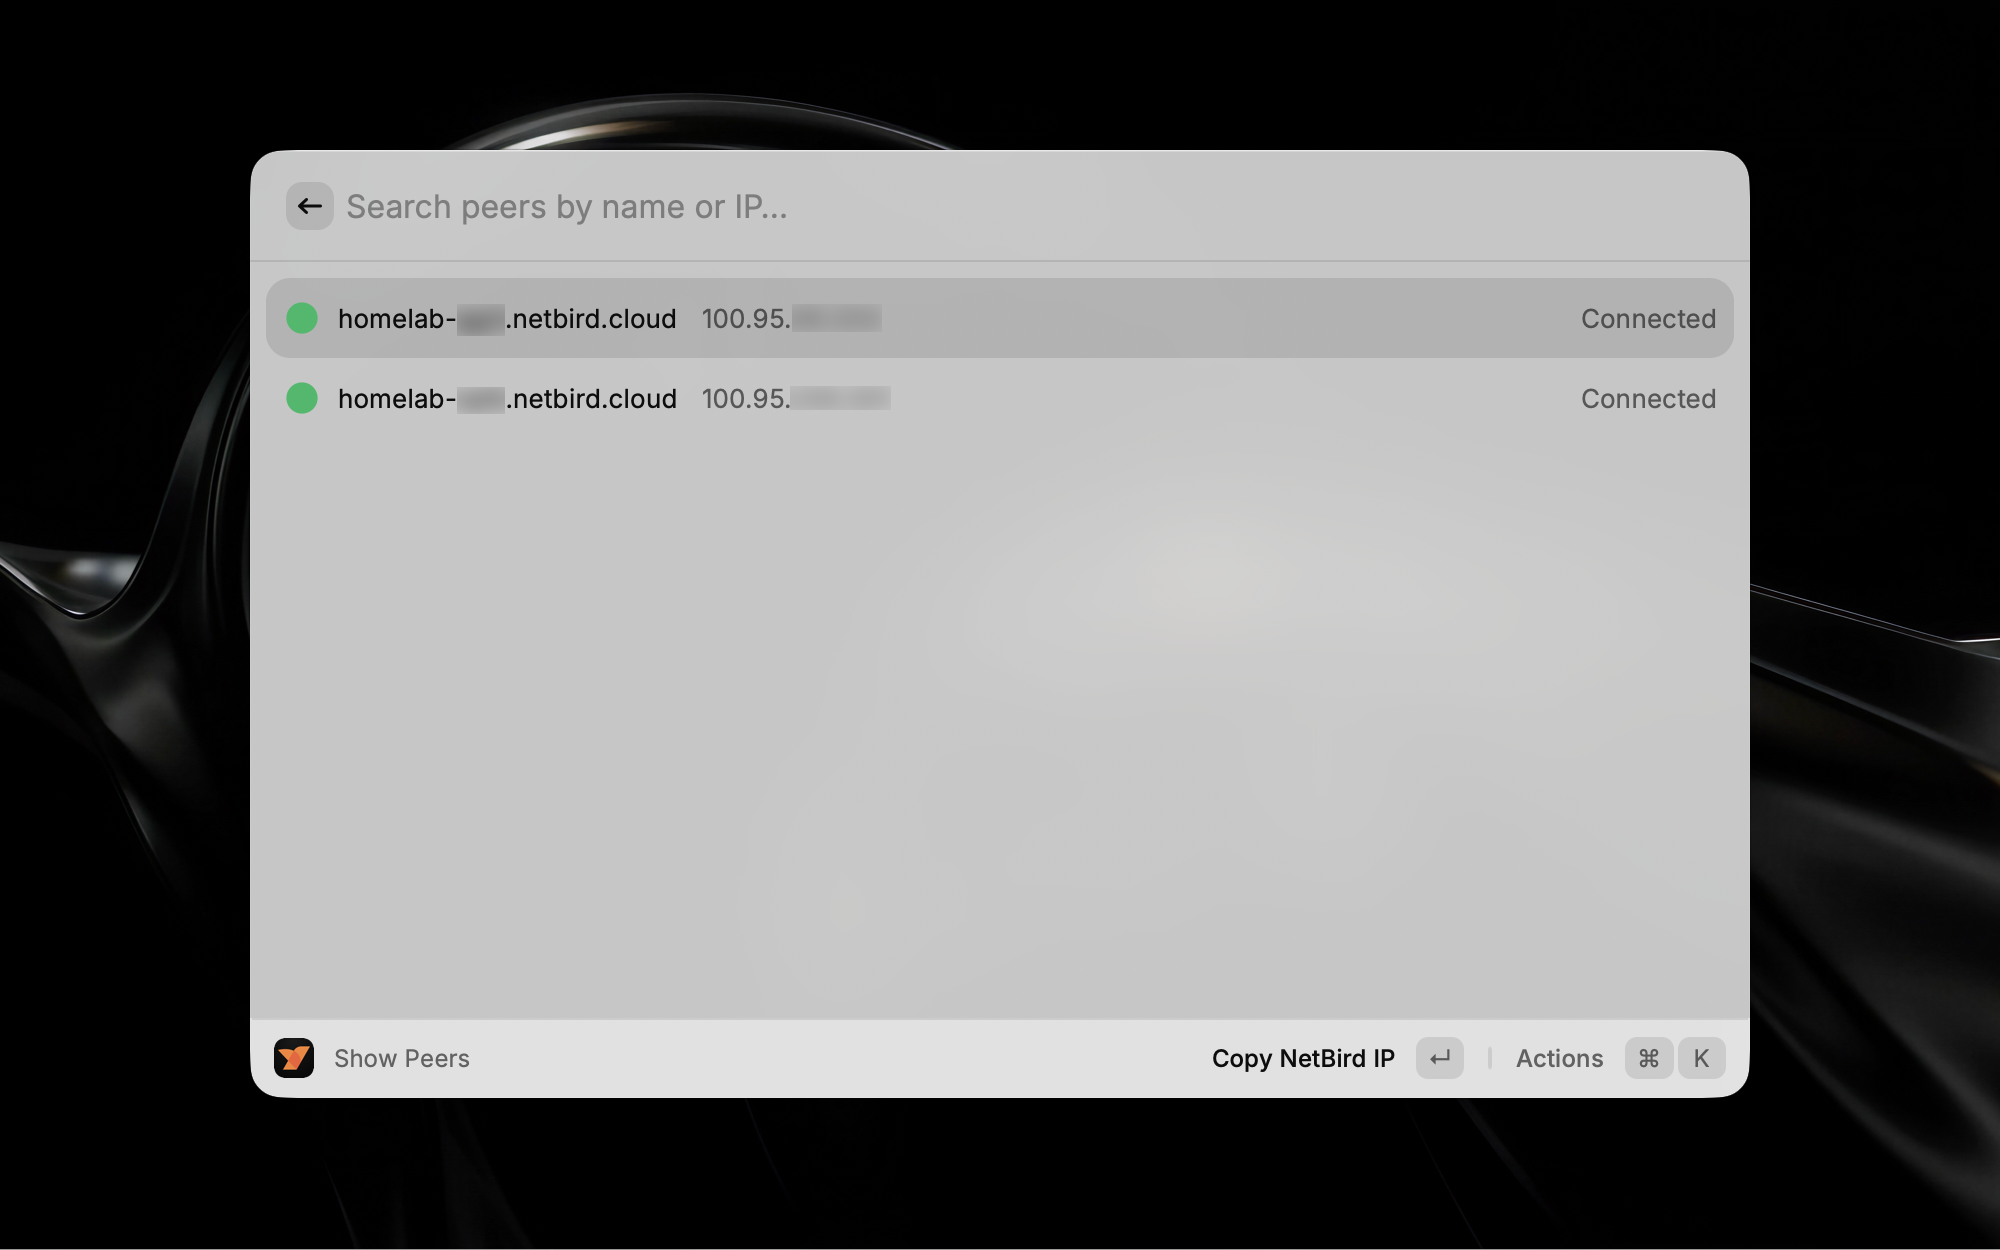
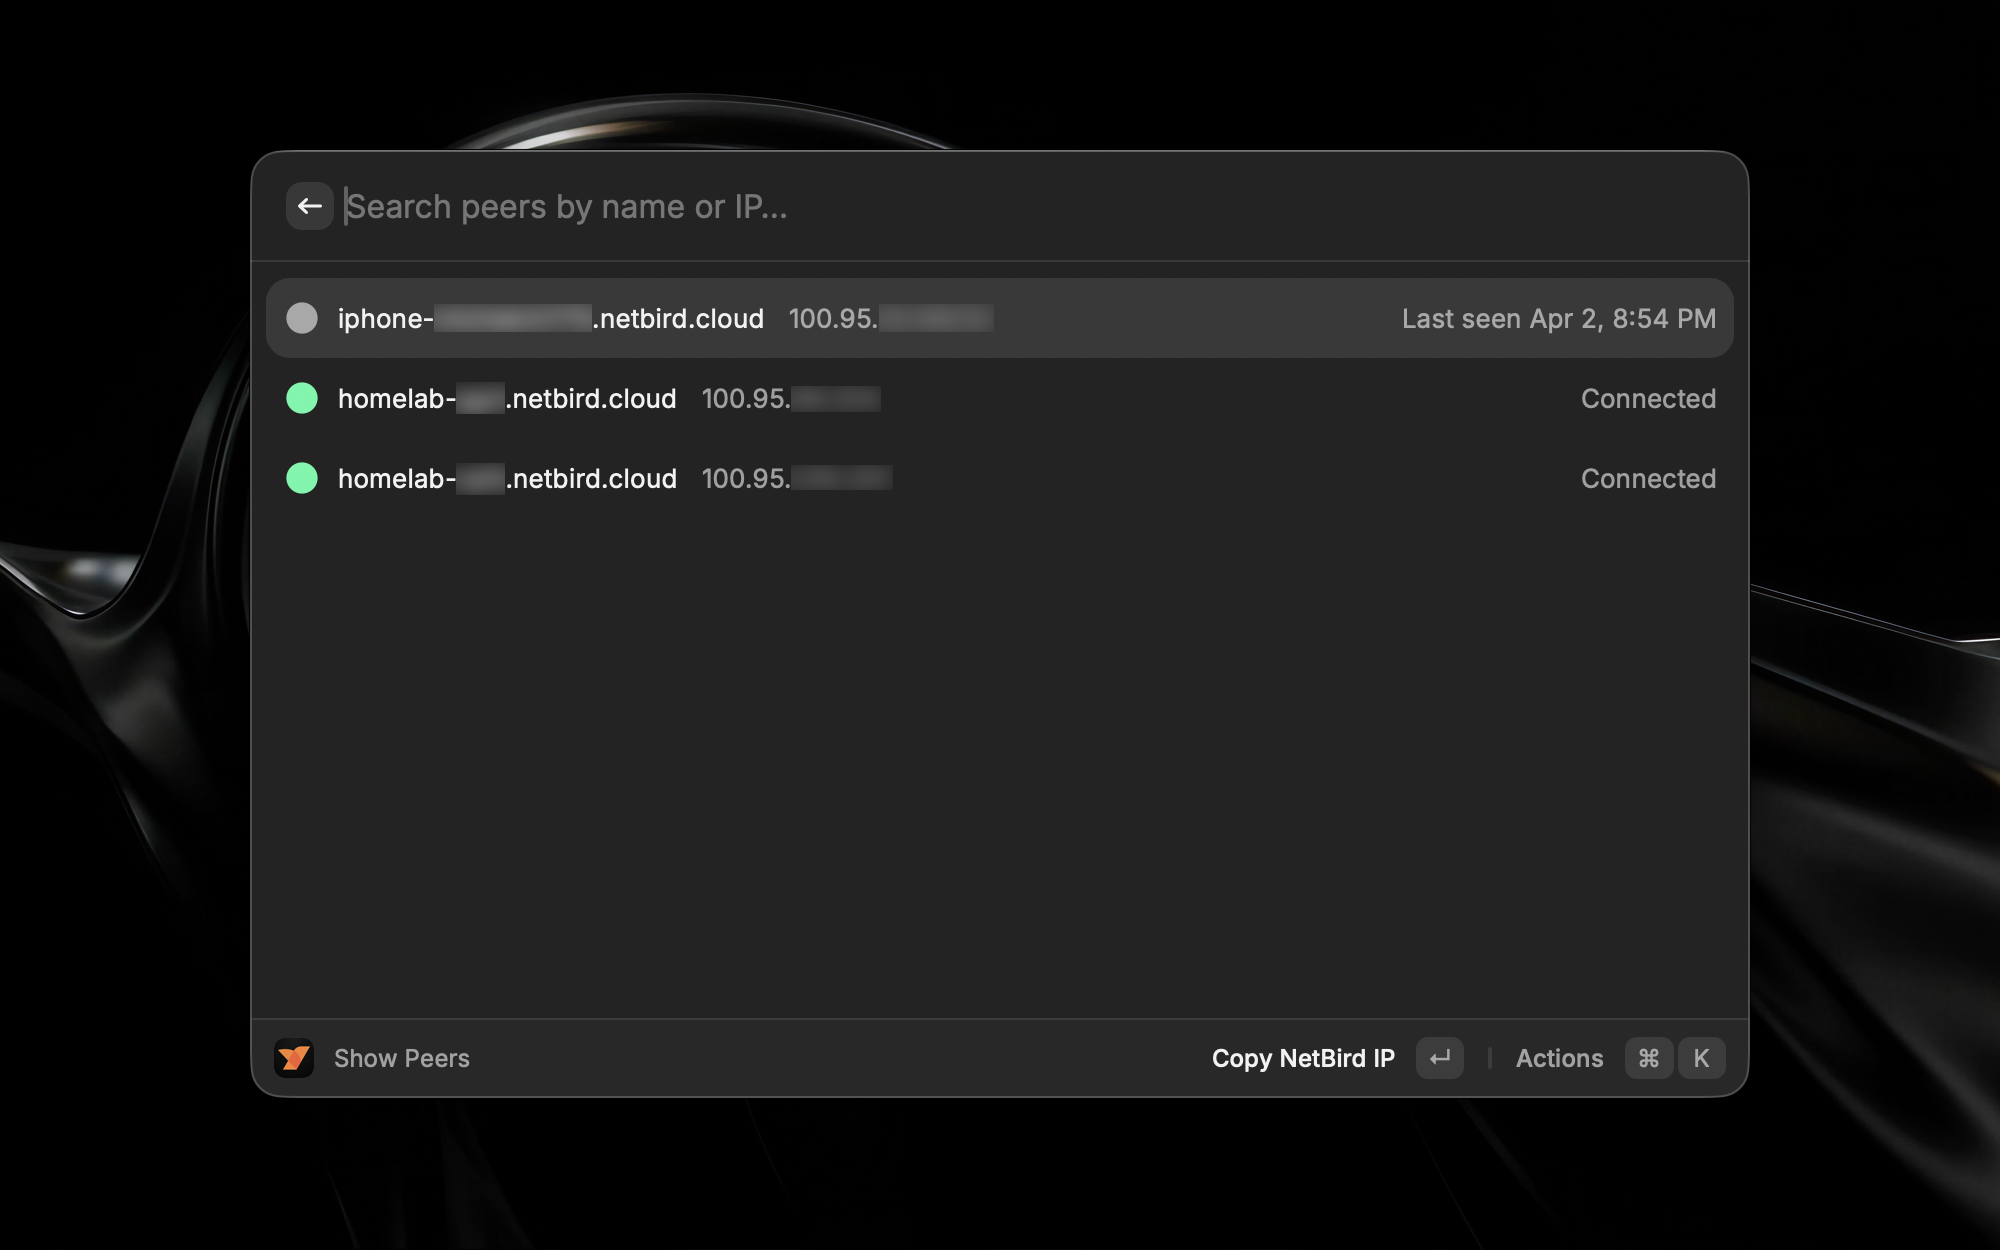
chore: changelog and screenshots

diff --git a/CHANGELOG.md b/CHANGELOG.md
@@ -1,5 +1,10 @@
 # NetBird Changelog
 
+## [Custom Admin URL] - {PR_MERGE_DATE}
+
+- Added option to overwrite Admin Panel URL in preferences.
+- Added more screenshots, changed all to dark mode.
+
 ## [Networks management] - 2026-04-02
 
 - Added `Show Networks` command to list network routes and select/deselect them from Raycast.
